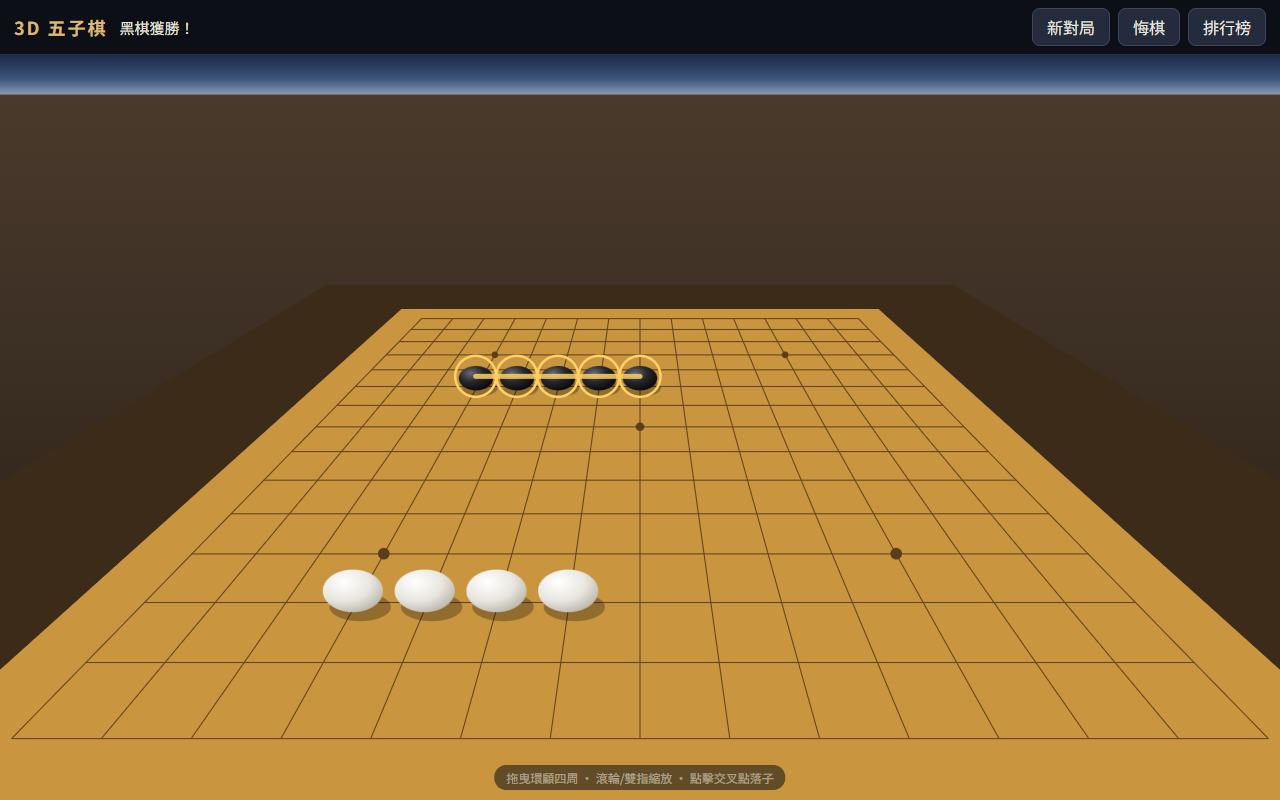
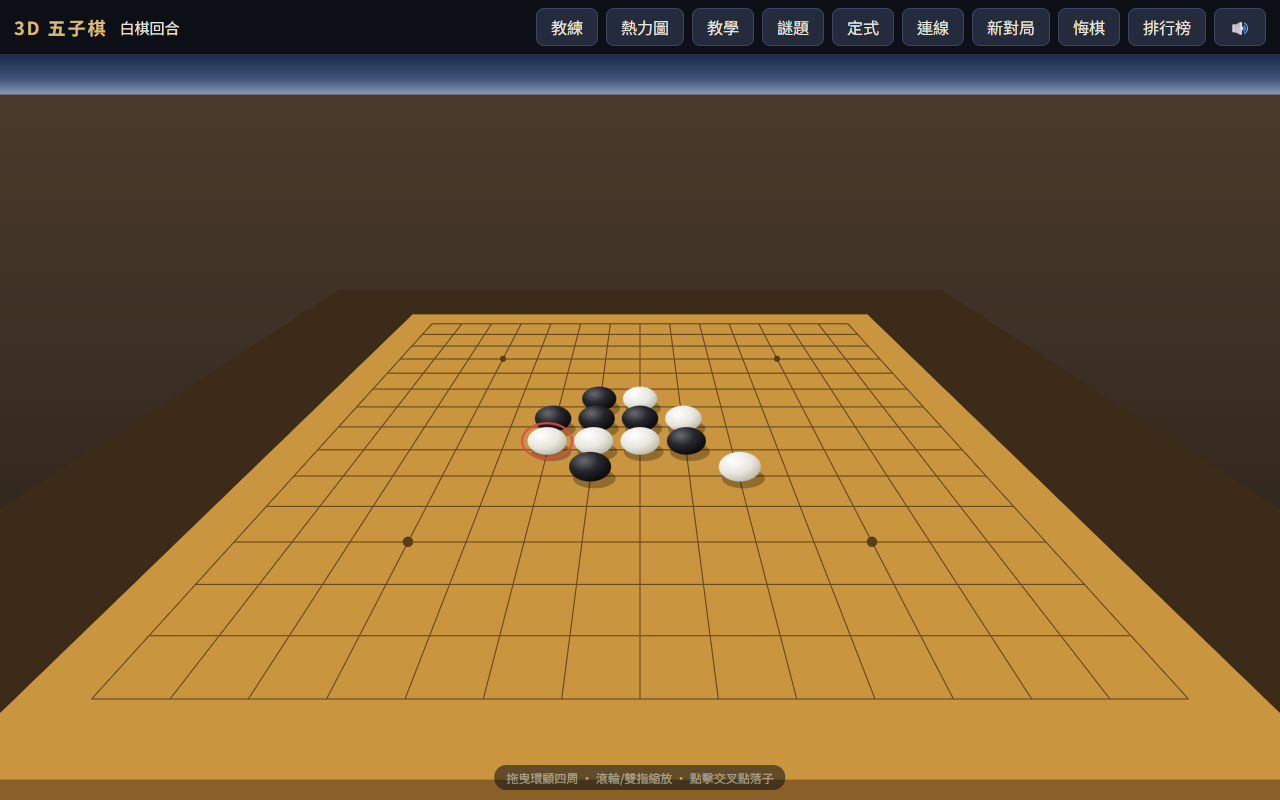
社群分享預覽圖 + Open Graph 標籤，截圖換成新版實際畫面
- 新增 og-image.png（1200×630 霓虹開場，社群分享縮圖）
- index.html 加 Open Graph / Twitter Card 標籤（標題、描述、縮圖、網址）
  → 貼到 LINE/FB 會顯示縮圖與標題
- screenshot.png / screenshot-mobile.png 換成本版實際畫面（含新工具列與功能）

diff --git a/index.html b/index.html
@@ -5,7 +5,21 @@
 <meta name="viewport" content="width=device-width, initial-scale=1, maximum-scale=1, user-scalable=no">
 <title>3D 五子棋 — 第一人稱對弈</title>
 <meta name="theme-color" content="#10141c">
+<meta name="description" content="純網頁 3D 五子棋：四級電腦 AI、新手教學、每日殘局謎題、開局定式圖鑑、禁手規則、AI 思考熱力圖、棋譜回放、線上對戰，手機也能玩。">
 <link rel="icon" type="image/svg+xml" href="favicon.svg">
+<!-- 社群分享預覽（Open Graph / Twitter Card） -->
+<meta property="og:type" content="website">
+<meta property="og:site_name" content="3D 五子棋">
+<meta property="og:title" content="3D 五子棋 — 第一人稱對弈">
+<meta property="og:description" content="四級電腦 AI、新手教學、每日殘局謎題、開局定式、AI 熱力圖、線上對戰，免安裝、手機也能玩。">
+<meta property="og:image" content="https://hbkqoo.github.io/gomoku/og-image.png">
+<meta property="og:image:width" content="1200">
+<meta property="og:image:height" content="630">
+<meta property="og:url" content="https://hbkqoo.github.io/gomoku/">
+<meta name="twitter:card" content="summary_large_image">
+<meta name="twitter:title" content="3D 五子棋 — 第一人稱對弈">
+<meta name="twitter:description" content="四級電腦 AI、新手教學、每日殘局謎題、開局定式、AI 熱力圖、線上對戰，免安裝、手機也能玩。">
+<meta name="twitter:image" content="https://hbkqoo.github.io/gomoku/og-image.png">
 <link rel="stylesheet" href="style.css?v=10">
 </head>
 <body>